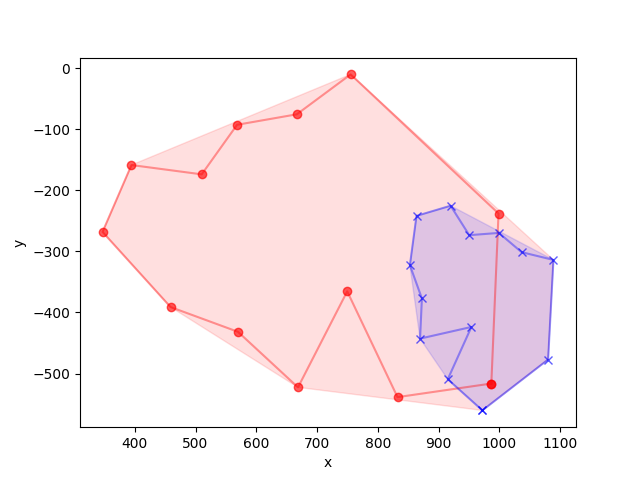
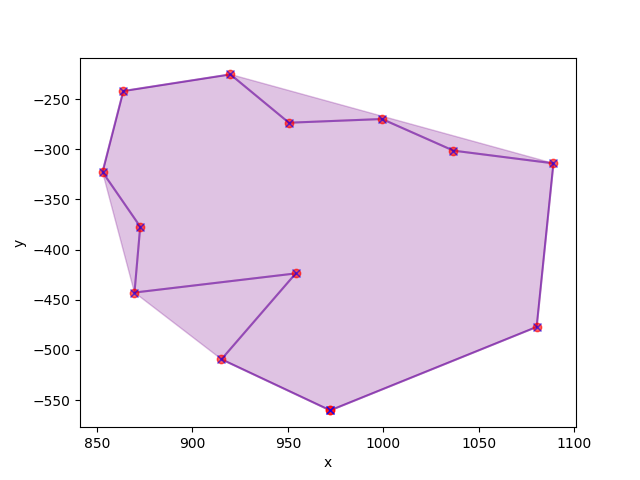
Minor fix to transformations calculus

diff --git a/validation/utils/m1.py b/validation/utils/m1.py
@@ -43,8 +43,8 @@ def plot_polygons(hull: list, min_hull: list, perceived_poly: list, real_poly: l
     plt.fill(h2_x, h2_y, color="#0000FF20")
 
     # Plotting polygons lines
-    plt.plot(p1_x, p1_y, color="#FF000060")
-    plt.plot(p2_x, p2_y, color="#0000FF60")
+    plt.plot(p1_x, p1_y, color="#FF000060")  # Red perceived poly
+    plt.plot(p2_x, p2_y, color="#0000FF60")  # Blue real poly
 
     # Plotting polygons points
     for p in perceived_poly:
@@ -97,8 +97,13 @@ def apply_transformations(initial_representation: list, events: list) -> float:
 
     # Apply multiplication
     polygon = geometry.Polygon(initial_representation)
-    s_polygon = affinity.scale(polygon, xfact=scale, yfact=scale)
-    r_s_polygon = affinity.rotate(s_polygon, rot_angle)
+    s_polygon = affinity.scale(polygon,
+                               xfact=scale,
+                               yfact=scale,
+                               origin=(0, 0))
+    r_s_polygon = affinity.rotate(s_polygon,
+                                  rot_angle,
+                                  origin=(0, 0))
     t_r_s_polygon = affinity.translate(r_s_polygon,
                                        xoff=trans_vector[0],
                                        yoff=trans_vector[1])
